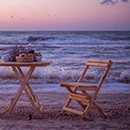
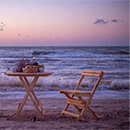
Блок "Новое место" - добавил картинки для ретина экранов

diff --git a/_includes/place.html b/_includes/place.html
@@ -6,15 +6,15 @@
     <div class="row">
       <div class="col-xl-auto col-sm-6 mt-xl-4">
         <div class="place__item place__item_left">
-          <div class="place__img"><img src="img/{{ site.data.nove-misce.item-img-1 }}"></div>
+          <div class="place__img"><img src="img/place-1.jpg" srcset="img/place-1.jpg 1x, img/place-1@2x.jpg 2x" alt=""></div>
           <div class="place__descr">{{ site.data.nove-misce.item-description-1 }}</div>
         </div>
         <div class="place__item place__item_left">
-          <div class="place__img"><img src="img/{{ site.data.nove-misce.item-img-2 }}"></div>
+          <div class="place__img"><img src="img/place-2.jpg" srcset="img/place-2.jpg 1x, img/place-2@2x.jpg 2x" alt=""></div>
           <div class="place__descr">{{ site.data.nove-misce.item-description-2 }}</div>
         </div>
         <div class="place__item place__item_left">
-          <div class="place__img"><img src="img/{{ site.data.nove-misce.item-img-3 }}"></div>
+          <div class="place__img"><img src="img/place-3.jpg" srcset="img/place-3.jpg 1x, img/place-3@2x.jpg 2x" alt=""></div>
           <div class="place__descr">{{ site.data.nove-misce.item-description-3 }}</div>
         </div>
       </div>
@@ -36,15 +36,15 @@
       <div class="col-xl-auto col-sm-6 mt-xl-4">
         <div class="place__item place__item_right">
           <div class="place__descr">{{ site.data.nove-misce.item-description-4 }}</div>
-          <div class="place__img"><img src="img/{{ site.data.nove-misce.item-img-4 }}"></div>
+          <div class="place__img"><img src="img/place-4.jpg" srcset="img/place-4.jpg 1x, img/place-4@2x.jpg 2x" alt=""></div>
         </div>
         <div class="place__item place__item_right">
           <div class="place__descr">{{ site.data.nove-misce.item-description-5 }}</div>
-          <div class="place__img"><img src="img/{{ site.data.nove-misce.item-img-5 }}"></div>
+          <div class="place__img"><img src="img/place-5.jpg" srcset="img/place-5.jpg 1x, img/place-5@2x.jpg 2x" alt=""></div>
         </div>
         <div class="place__item place__item_right">
           <div class="place__descr">{{ site.data.nove-misce.item-description-6 }}</div>
-          <div class="place__img"><img src="img/{{ site.data.nove-misce.item-img-6 }}"></div>
+          <div class="place__img"><img src="img/place-6.jpg" srcset="img/place-6.jpg 1x, img/place-6@2x.jpg 2x" alt=""></div>
         </div>
       </div>
     </div>
